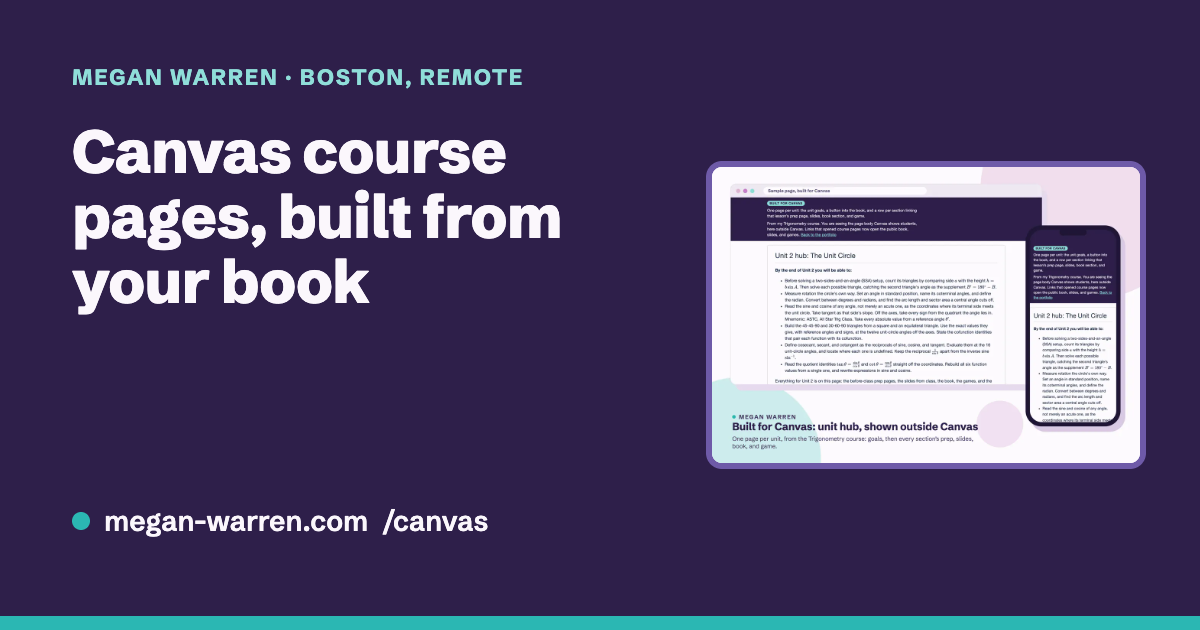
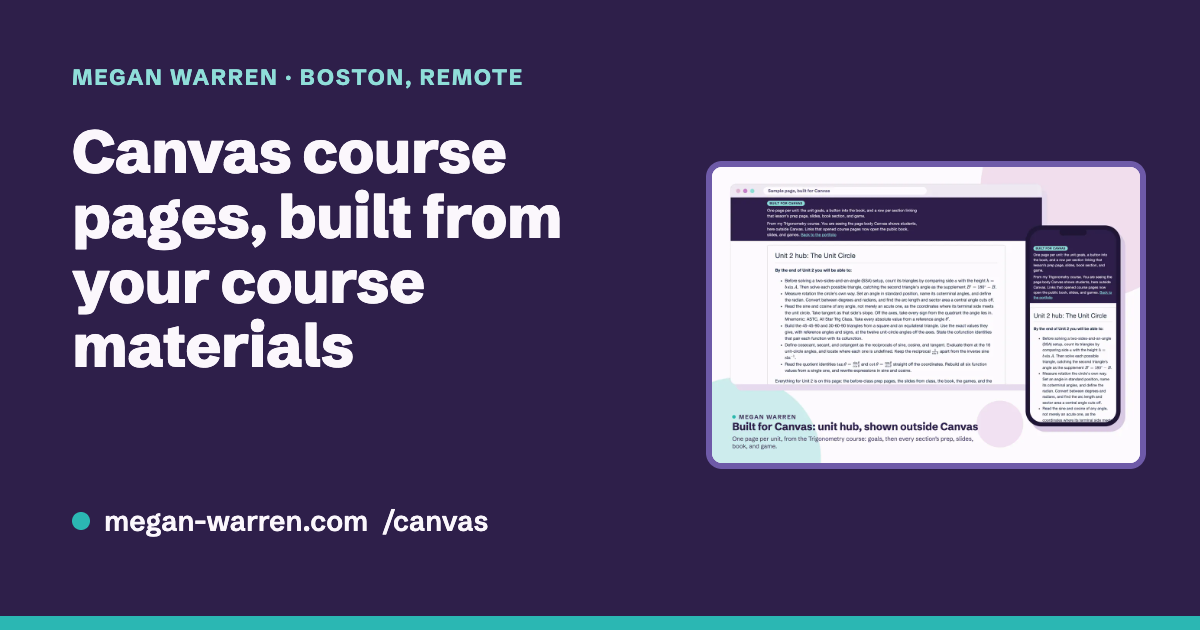
Canvas copy: built from your course materials, not only a book
Megan's call: a Canvas client may bring slides or an outline, not a book.
H1, title area, description, home section heading, and the OG card.

Changed region(s): [[0.0617, 0.5127, 0.3083, 0.6032], [0.185, 0.3921, 0.37, 0.4825]]

diff --git a/index.html b/index.html
@@ -113,7 +113,7 @@
       "name": "Canvas course pages",
       "serviceType": "Learning management system course design",
       "url": "https://megan-warren.com/canvas/",
-      "description": "Canvas unit hubs and before-class prep pages, generated from a course's book and lesson files.",
+      "description": "Canvas unit hubs and before-class prep pages, built from a course's existing materials, such as its book and lesson slides.",
       "provider": {
        "@id": "https://megan-warren.com/#person"
       },
@@ -149,7 +149,7 @@
    "name": "Canvas course pages",
    "serviceType": "Learning management system course design",
    "url": "https://megan-warren.com/canvas/",
-   "description": "Canvas unit hubs and before-class prep pages, generated from a course's book and lesson files.",
+   "description": "Canvas unit hubs and before-class prep pages, built from a course's existing materials, such as its book and lesson slides.",
    "provider": {
     "@id": "https://megan-warren.com/#person"
    },
@@ -376,7 +376,7 @@
 </section>
 
 <section aria-labelledby="canvas">
-  <h2 id="canvas">Canvas course pages, built from the book</h2>
+  <h2 id="canvas">Canvas course pages, built from your course materials</h2>
   <p class="intro">Unit hubs and before-class prep pages, generated from the book and lesson files. Open the unit hub sample to see it as students would in Canvas, with its six prep pages and links to the public book, slides, and games.</p>
   <div class="gallery">
     <figure><img loading="lazy" decoding="async" src="/img/canvas-unit-hub.webp" width="560" height="387" alt="The Trigonometry Unit 2 hub shown in a plain browser frame and a phone frame: unit goals with typeset math, under a purple Built for Canvas header."><figcaption>Built for Canvas: unit hub, shown outside Canvas</figcaption></figure>
